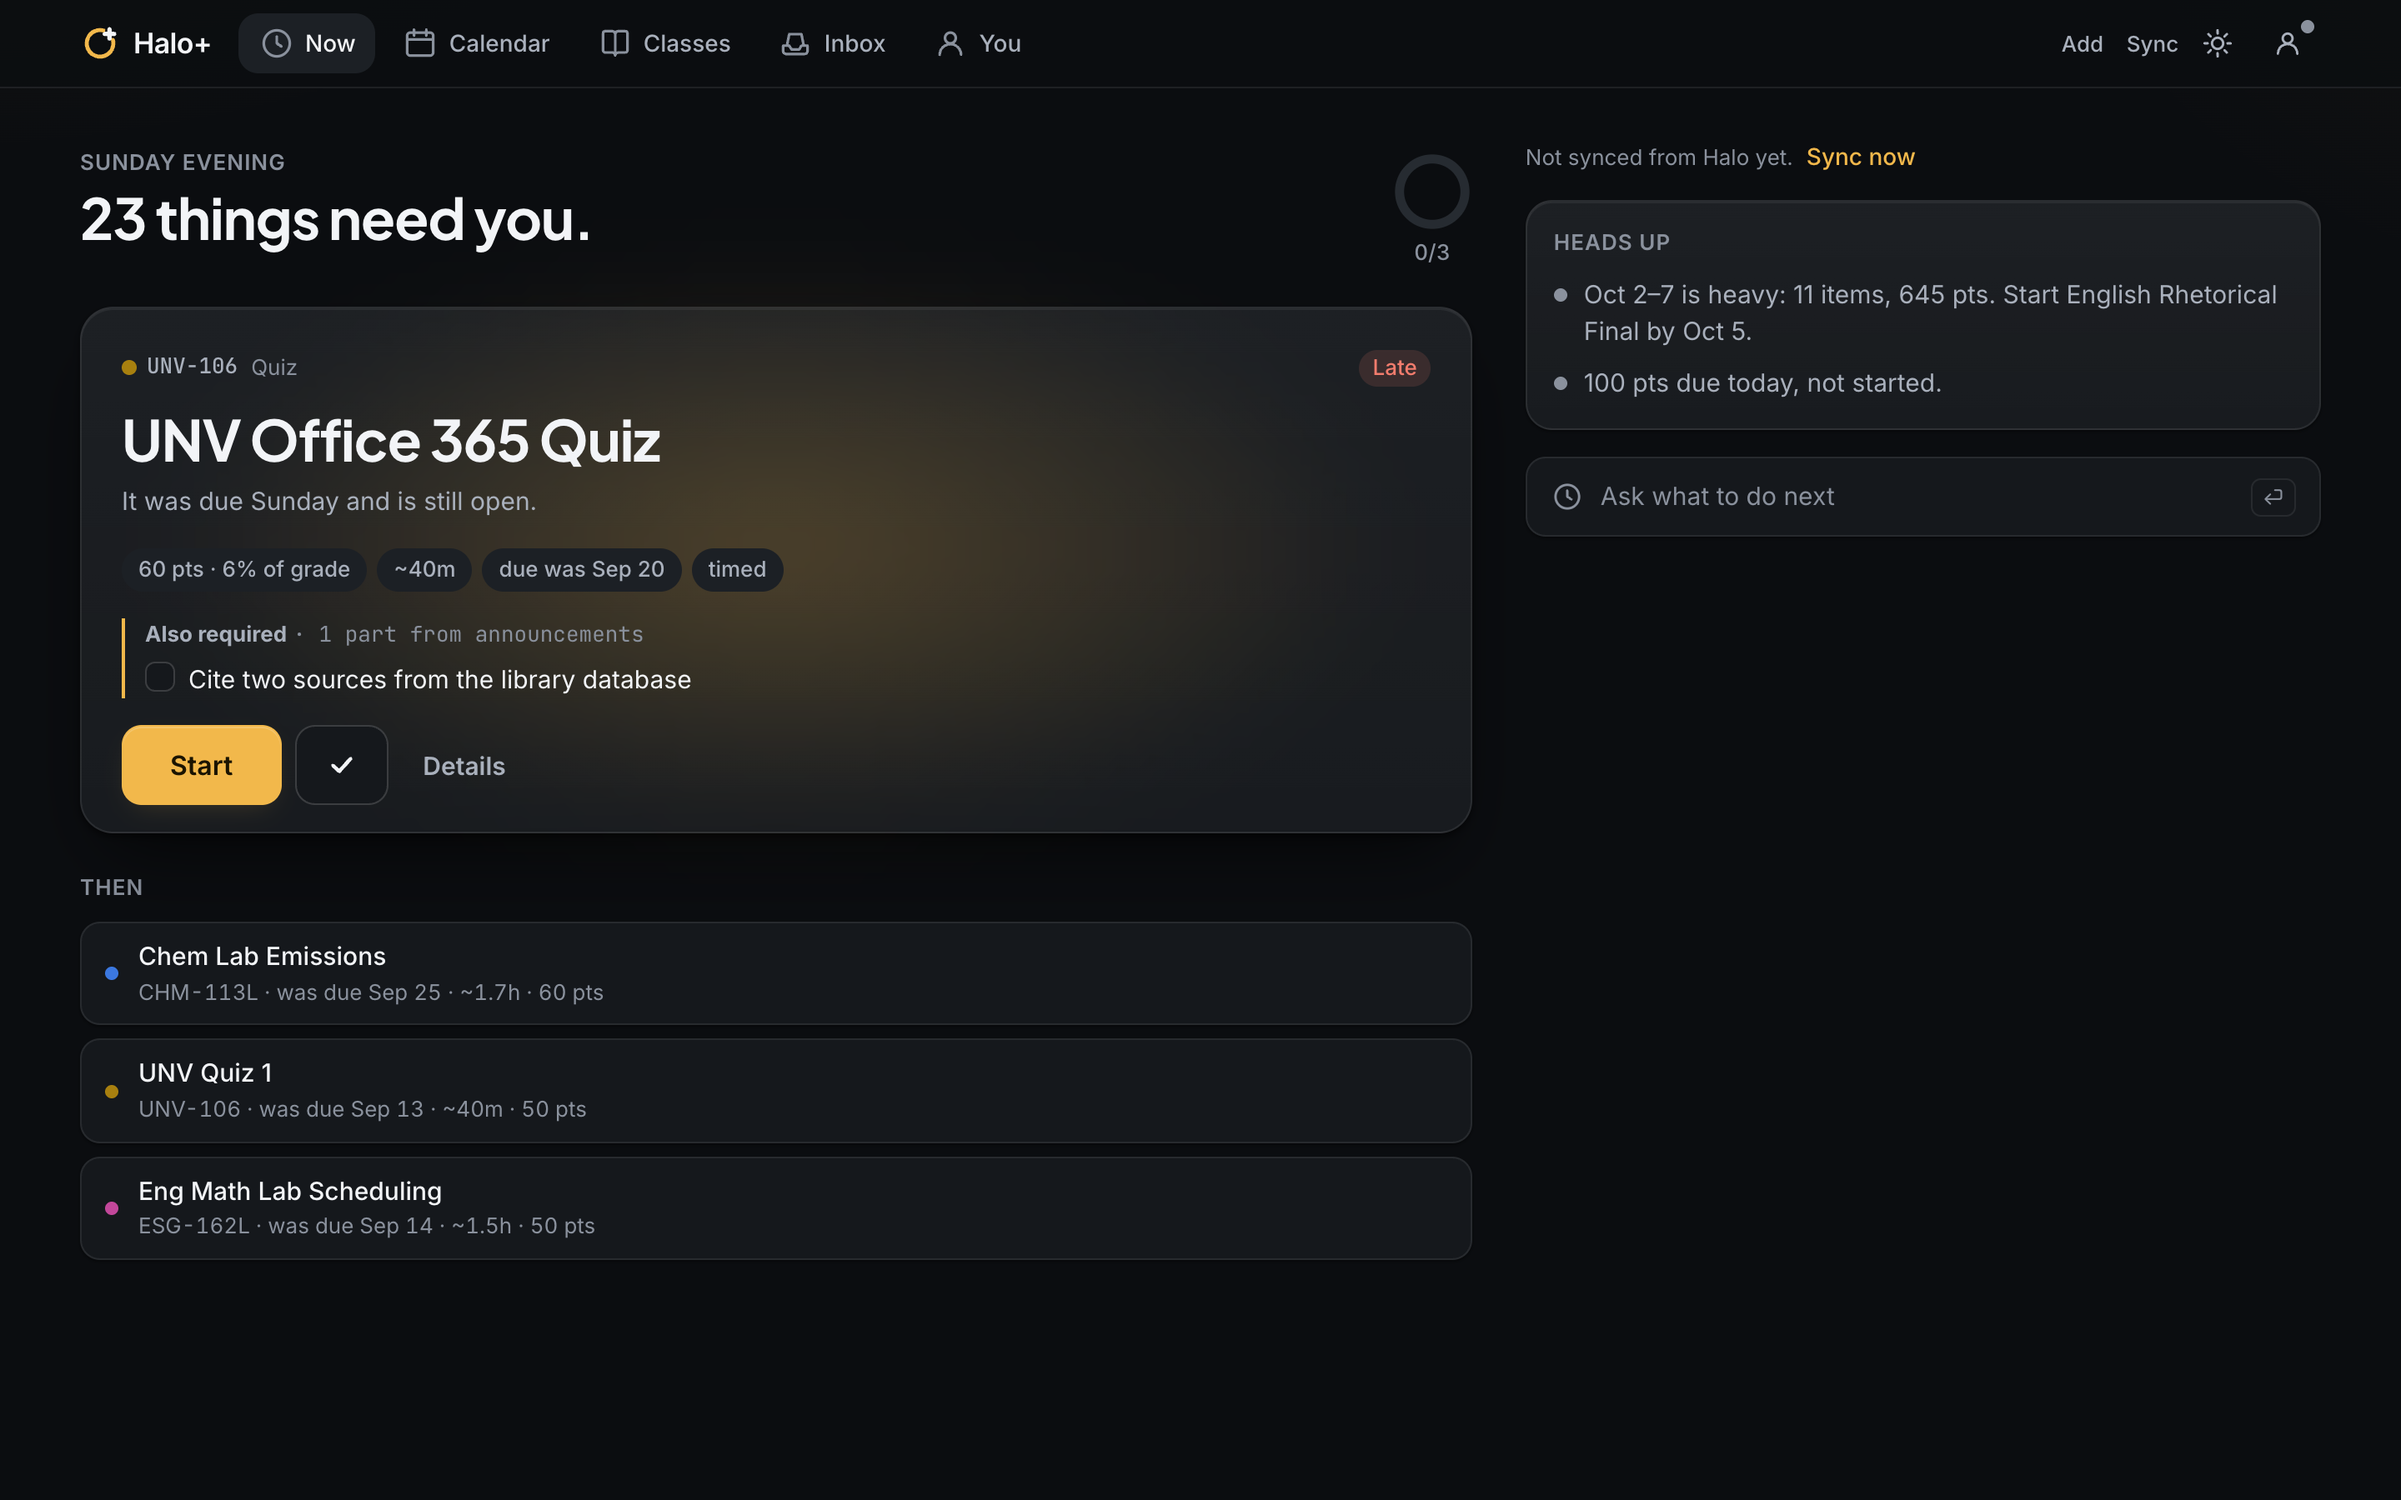
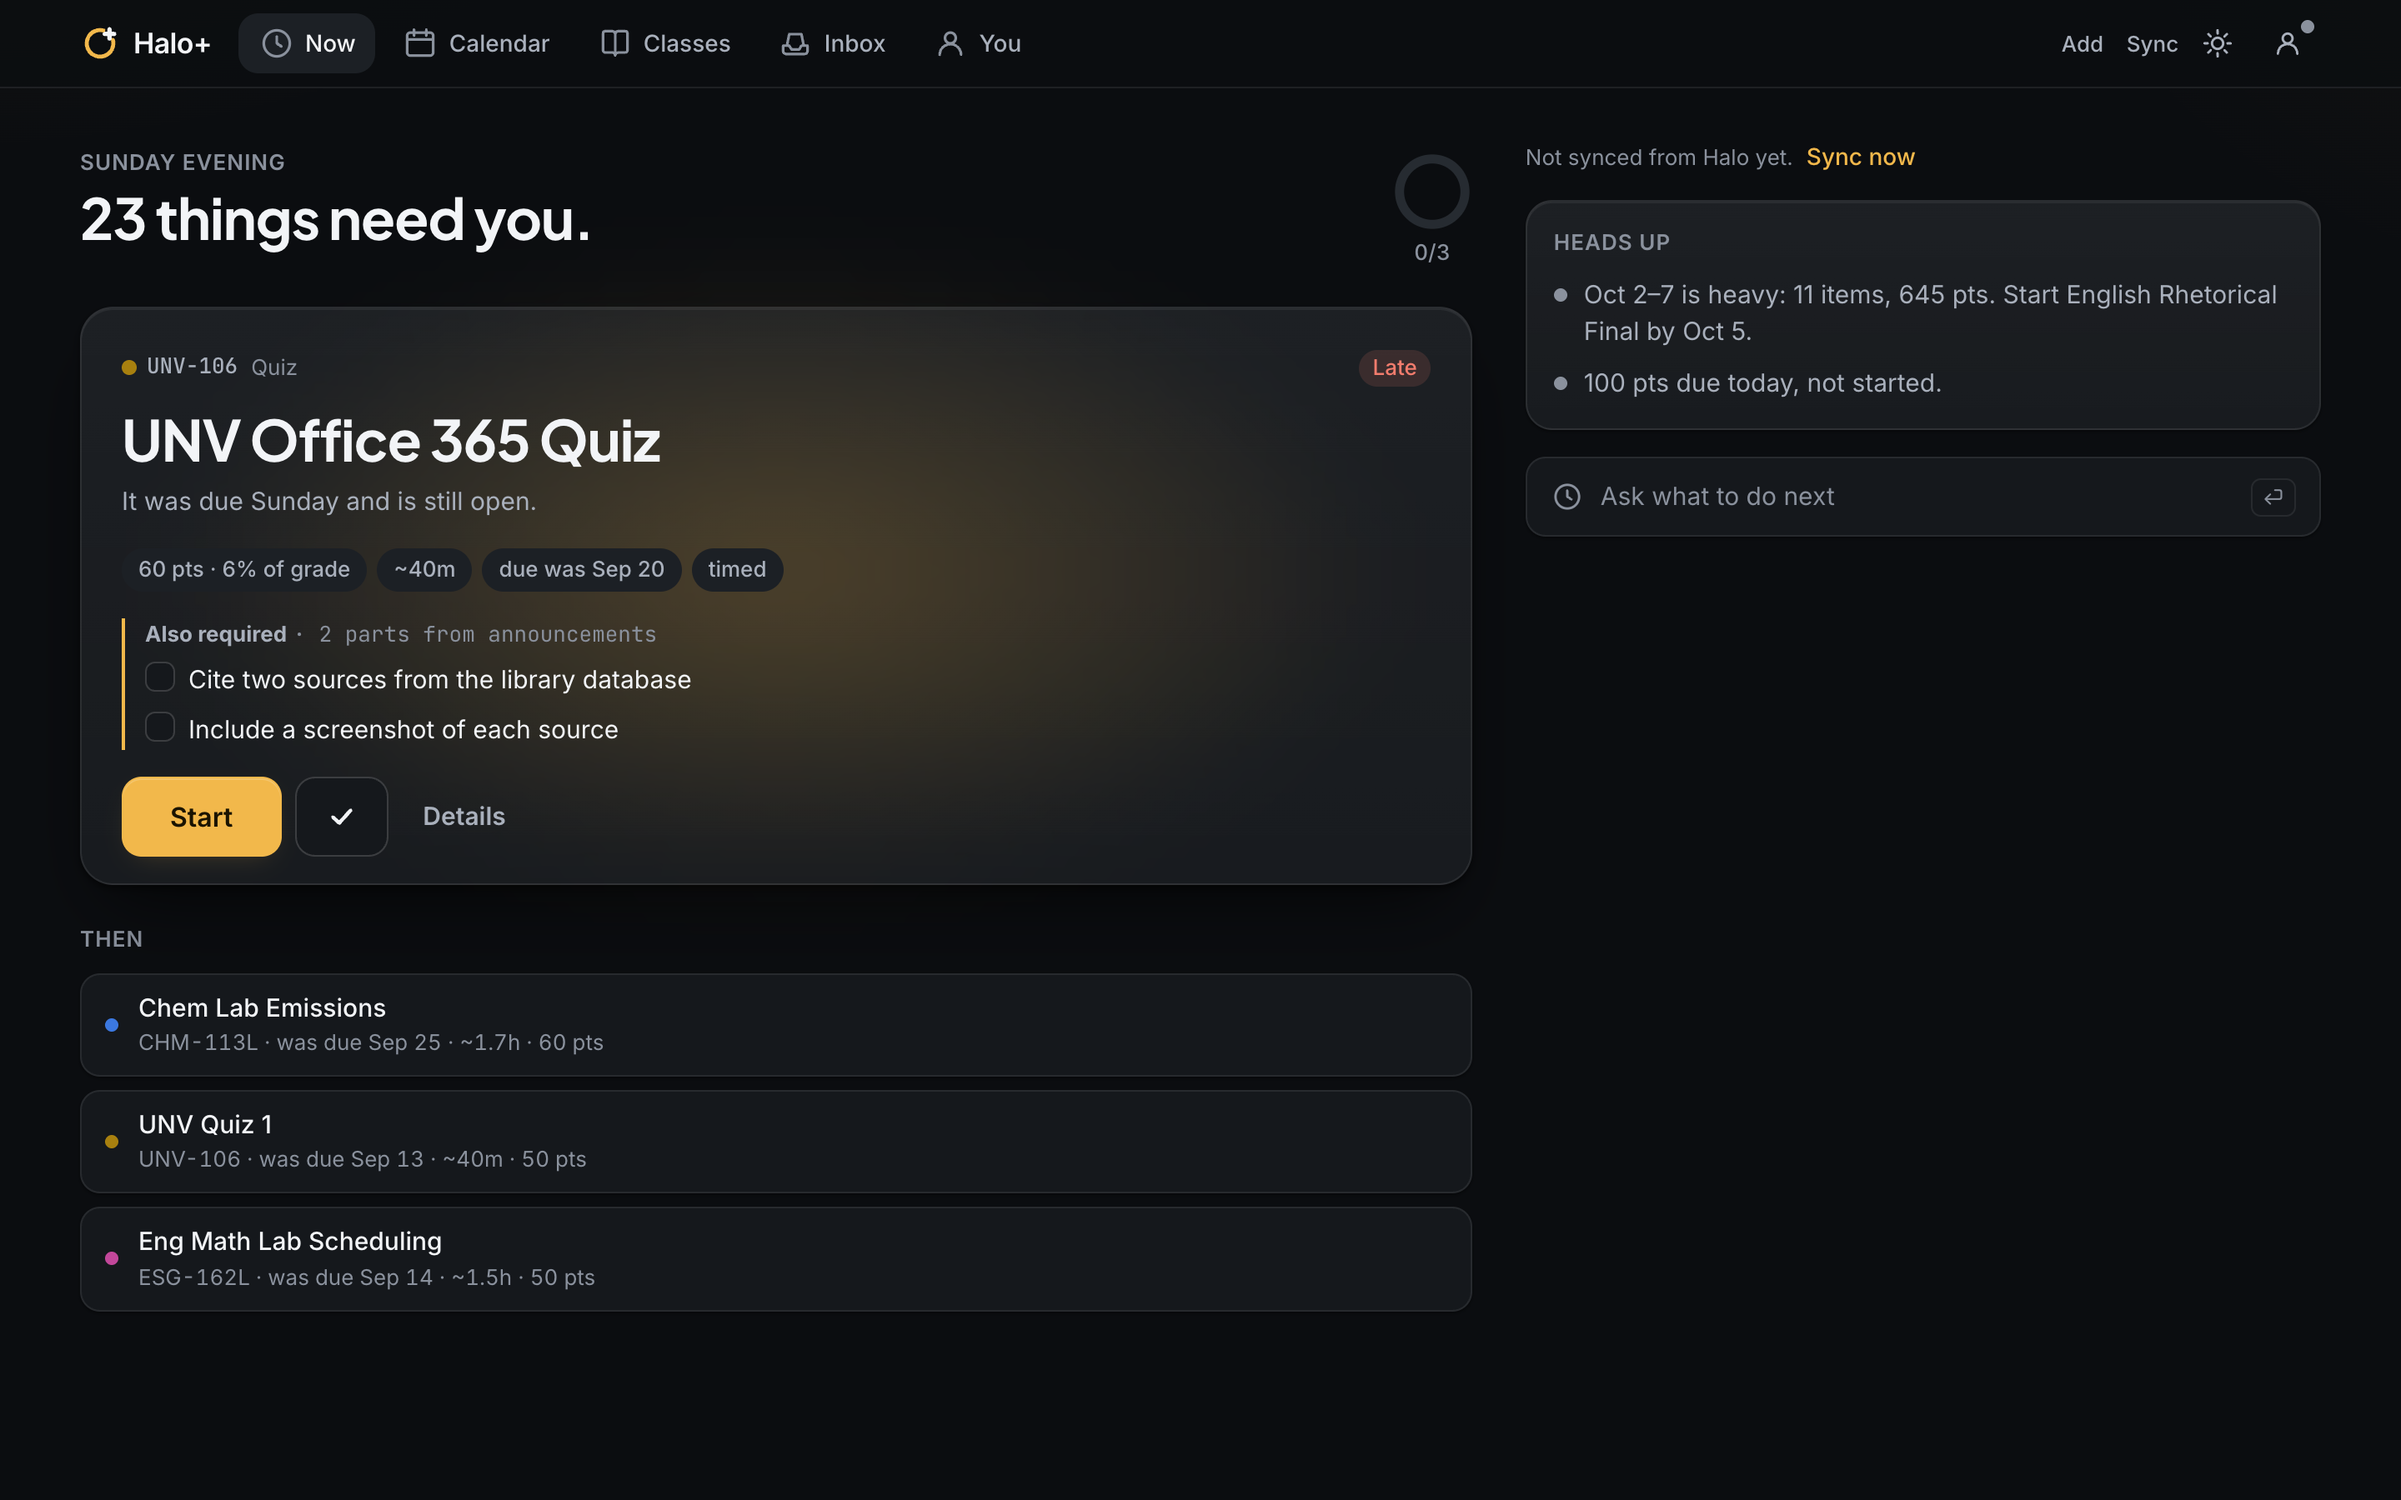
Requirement dedup: the words decide; a shared quote is not a shared part

diff --git a/src/domain/requirements.ts b/src/domain/requirements.ts
@@ -13,10 +13,9 @@ import type { ClassNote, Course, DateStr, Item, ReqSource, Requirement } from '.
  * identical sentence twice, so this matches on meaning with the same similarity check that collapsed the four
  * Chemistry Connections claims.
  */
-const same = (a: Requirement, b: { text: string; source: ReqSource }) =>
-  a.text.trim().toLowerCase() === b.text.trim().toLowerCase() ||
-  (!!a.source.quote && a.source.quote === b.source.quote && a.source.id === b.source.id) ||
-  overlap(a.text, b.text) >= 0.6;
+// The words decide. One professor sentence can yield two parts ("bring goggles" and "post your questions"), so a
+// shared quote is not a shared part; a rewording of the same instruction is.
+const same = (a: Requirement, b: { text: string; source: ReqSource }) => a.text.trim().toLowerCase() === b.text.trim().toLowerCase() || overlap(a.text, b.text) >= 0.6;
 
 /**
  * The same list with near-duplicates folded together: a rewording that arrived by another path, or before the

diff --git a/src/domain/requirements.test.ts b/src/domain/requirements.test.ts
@@ -23,6 +23,11 @@ describe('one part, two wordings', () => {
     const out = dedupeRequirements([req('1', 'Attach the lab guides and use the template'), req('2', 'Using the template, the lab guide must be attached')]);
     expect(out).toHaveLength(1);
   });
+  it('two different parts quoted from the same sentence of the same post stay apart', () => {
+    const quote = 'Bring your own goggles and post your pre-lab questions in the forum.';
+    const out = dedupeRequirements([req('1', 'Bring your own splash goggles to lab', quote), req('2', 'Post your pre-lab questions in the forum', quote)]);
+    expect(out).toHaveLength(2);
+  });
   it('genuinely different parts stay apart', () => {
     const out = dedupeRequirements([req('1', 'Cite two peer-reviewed sources'), req('2', 'Bring your own splash goggles to lab')]);
     expect(out).toHaveLength(2);
